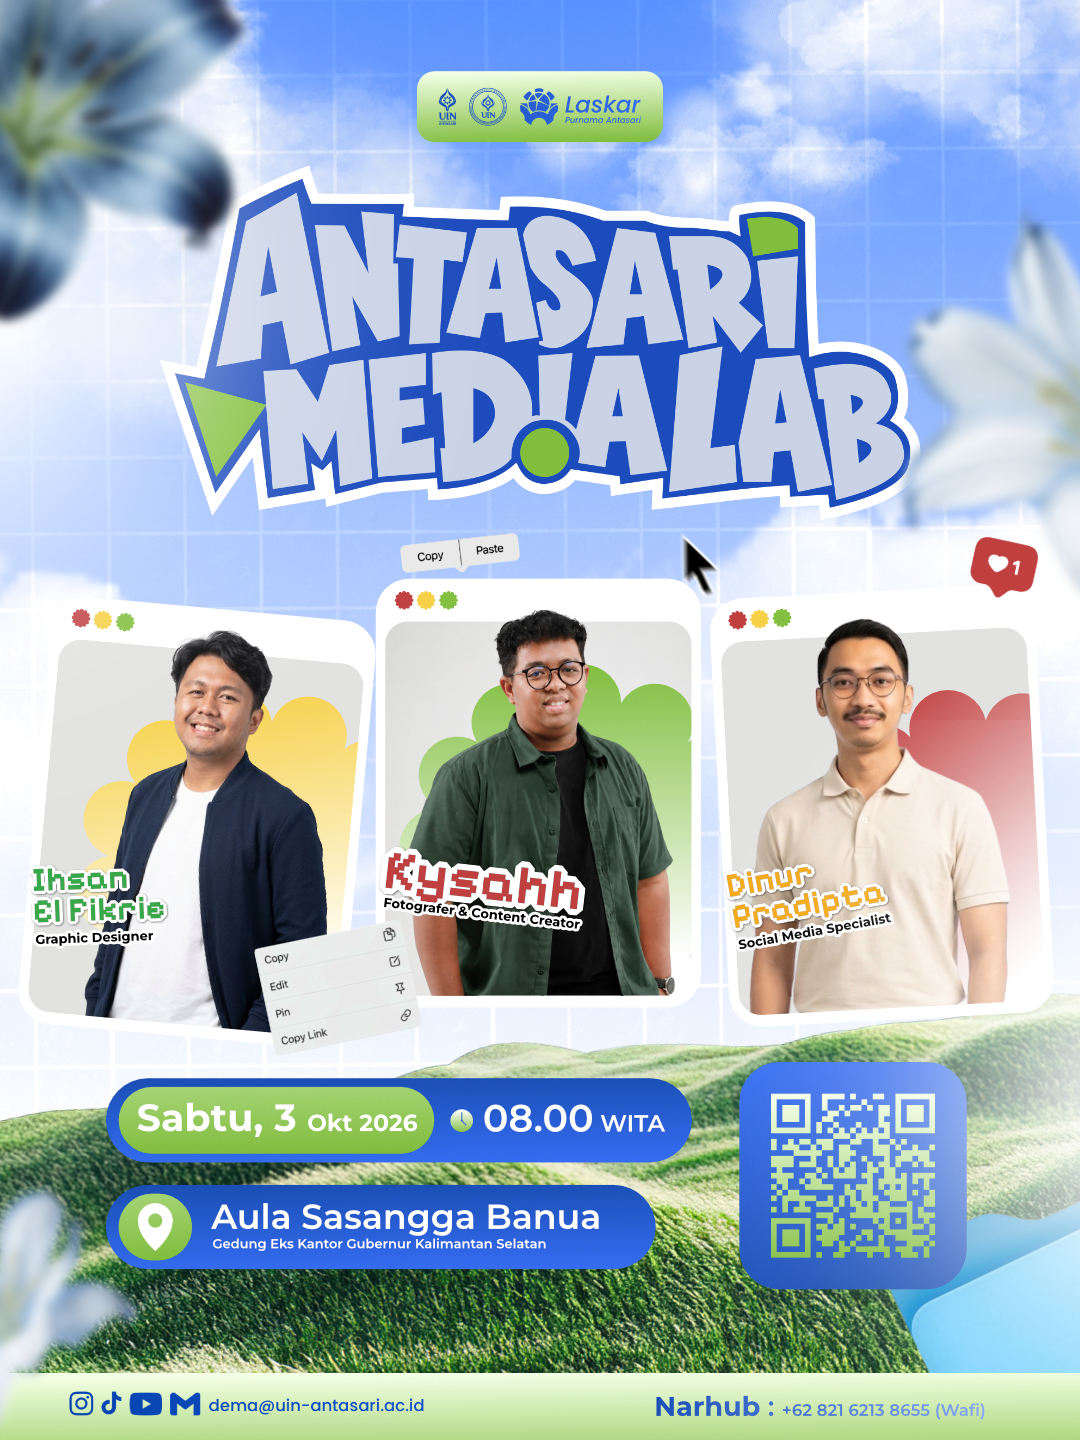
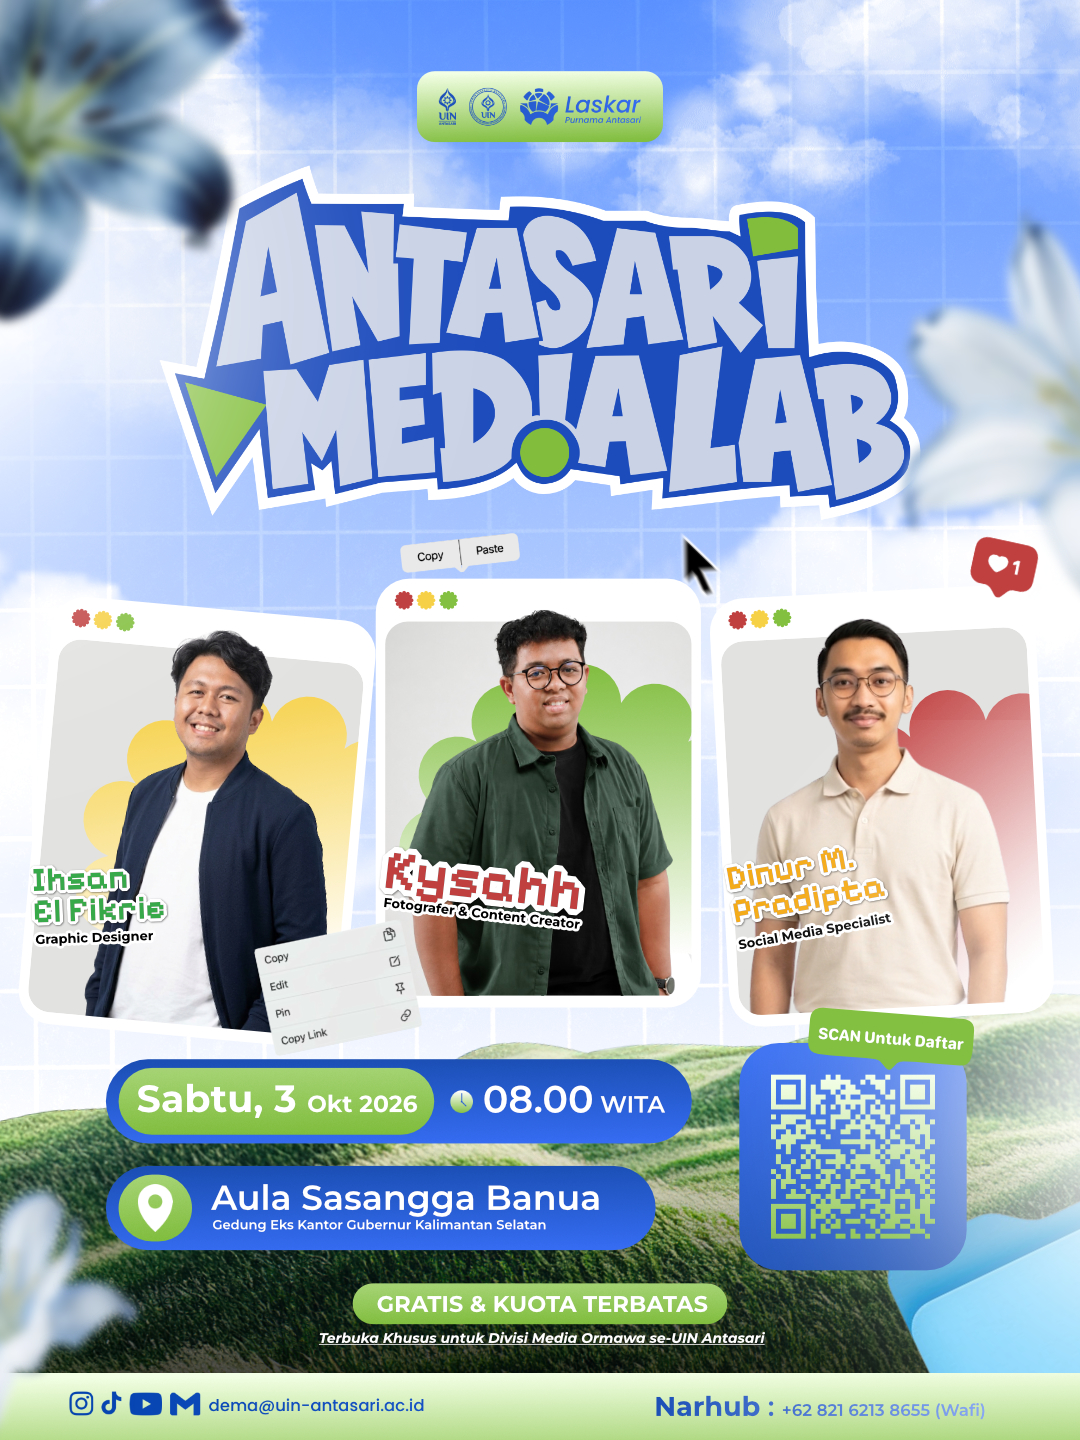
feat: update official pamphlet poster and speaker info for antasari media lab

Changed region(s): [[0.0306, 0.6875, 0.9167, 0.9688], [0.6722, 0.5625, 0.825, 0.6562]]

diff --git a/src/components/event/EventCard.tsx b/src/components/event/EventCard.tsx
@@ -58,10 +58,10 @@ export default function EventCard() {
                 Ihsan El Fikrie <span className="text-neutral-400 font-normal">/ Graphic Designer</span>
               </span>
               <span className="px-3 py-1.5 rounded-lg bg-neutral-100 dark:bg-neutral-800 text-neutral-800 dark:text-neutral-200 font-medium">
-                Kysahh <span className="text-neutral-400 font-normal">/ Fotografer & Creator</span>
+                Kysahh <span className="text-neutral-400 font-normal">/ Fotografer & Content Creator</span>
               </span>
               <span className="px-3 py-1.5 rounded-lg bg-neutral-100 dark:bg-neutral-800 text-neutral-800 dark:text-neutral-200 font-medium">
-                Dinur Pradipta <span className="text-neutral-400 font-normal">/ Social Media Specialist</span>
+                Dinur M. Pradipta <span className="text-neutral-400 font-normal">/ Social Media Specialist</span>
               </span>
             </div>
           </div>
